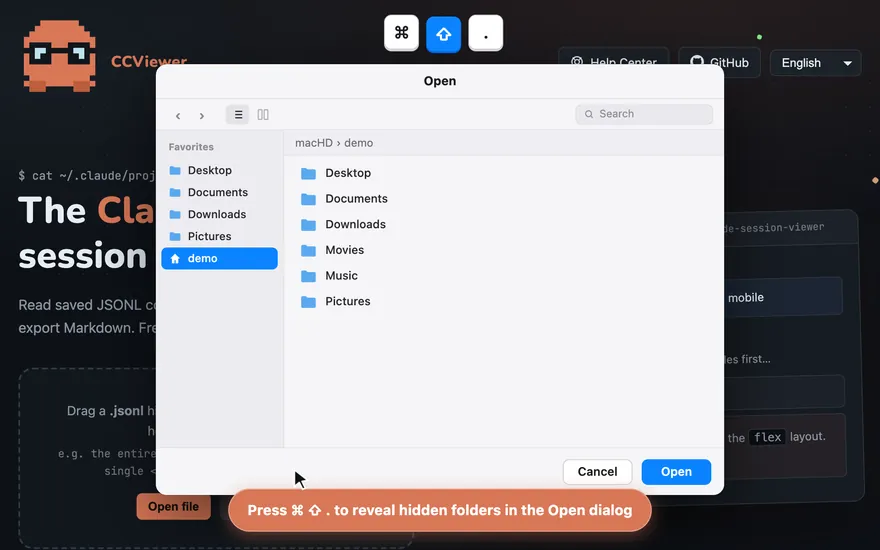
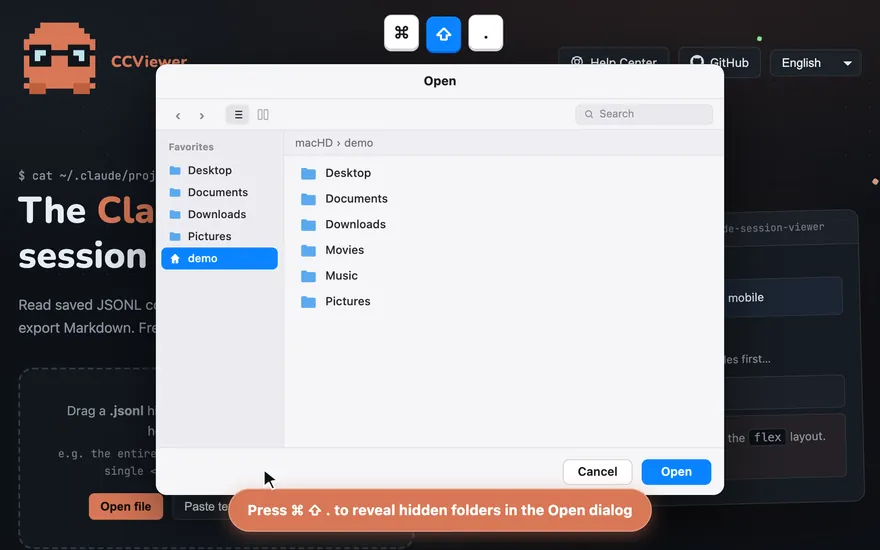
feat: keep Open folder as the third landing CTA button

diff --git a/claude-code-session-viewer/hi/index.html b/claude-code-session-viewer/hi/index.html
@@ -394,6 +394,7 @@ select.btn{appearance:none;-webkit-appearance:none;padding-right:26px;background
         <div class="cta">
           <button class="btn primary" id="btnPick" data-i18n="openFile">फ़ाइल खोलें</button>
           <button class="btn" id="btnPasteDrop" data-i18n="pasteText">टेक्स्ट पेस्ट करें</button>
+          <button class="btn" id="btnPickDir" data-i18n="openFolder">फ़ोल्डर खोलें</button>
         </div>
       </div>
     </div>
@@ -1499,6 +1500,7 @@ $('#btnHome').onclick=()=>{
 $('#btnLibrary').onclick=showLibrary;
 $('#btnLibLanding').onclick=showLibrary;
 $('#btnLibClose').onclick=()=>showView(CUR?'viewer':'landing');
+$('#btnPickDir').onclick=pickDir;
 $('#btnImportFolder').onclick=pickDir;
 $('#btnImportFolder2').onclick=pickDir;
 $('#dirpicker').onchange=async e=>{

diff --git a/claude-code-session-viewer/ru/index.html b/claude-code-session-viewer/ru/index.html
@@ -394,6 +394,7 @@ select.btn{appearance:none;-webkit-appearance:none;padding-right:26px;background
         <div class="cta">
           <button class="btn primary" id="btnPick" data-i18n="openFile">Открыть файл</button>
           <button class="btn" id="btnPasteDrop" data-i18n="pasteText">Вставить текст</button>
+          <button class="btn" id="btnPickDir" data-i18n="openFolder">Открыть папку</button>
         </div>
       </div>
     </div>
@@ -1499,6 +1500,7 @@ $('#btnHome').onclick=()=>{
 $('#btnLibrary').onclick=showLibrary;
 $('#btnLibLanding').onclick=showLibrary;
 $('#btnLibClose').onclick=()=>showView(CUR?'viewer':'landing');
+$('#btnPickDir').onclick=pickDir;
 $('#btnImportFolder').onclick=pickDir;
 $('#btnImportFolder2').onclick=pickDir;
 $('#dirpicker').onchange=async e=>{

diff --git a/claude-code-session-viewer/ja/index.html b/claude-code-session-viewer/ja/index.html
@@ -394,6 +394,7 @@ select.btn{appearance:none;-webkit-appearance:none;padding-right:26px;background
         <div class="cta">
           <button class="btn primary" id="btnPick" data-i18n="openFile">ファイルを開く</button>
           <button class="btn" id="btnPasteDrop" data-i18n="pasteText">テキストを貼り付け</button>
+          <button class="btn" id="btnPickDir" data-i18n="openFolder">フォルダを開く</button>
         </div>
       </div>
     </div>
@@ -1499,6 +1500,7 @@ $('#btnHome').onclick=()=>{
 $('#btnLibrary').onclick=showLibrary;
 $('#btnLibLanding').onclick=showLibrary;
 $('#btnLibClose').onclick=()=>showView(CUR?'viewer':'landing');
+$('#btnPickDir').onclick=pickDir;
 $('#btnImportFolder').onclick=pickDir;
 $('#btnImportFolder2').onclick=pickDir;
 $('#dirpicker').onchange=async e=>{

diff --git a/claude-code-session-viewer/fr/index.html b/claude-code-session-viewer/fr/index.html
@@ -394,6 +394,7 @@ select.btn{appearance:none;-webkit-appearance:none;padding-right:26px;background
         <div class="cta">
           <button class="btn primary" id="btnPick" data-i18n="openFile">Ouvrir un fichier</button>
           <button class="btn" id="btnPasteDrop" data-i18n="pasteText">Coller du texte</button>
+          <button class="btn" id="btnPickDir" data-i18n="openFolder">Ouvrir un dossier</button>
         </div>
       </div>
     </div>
@@ -1499,6 +1500,7 @@ $('#btnHome').onclick=()=>{
 $('#btnLibrary').onclick=showLibrary;
 $('#btnLibLanding').onclick=showLibrary;
 $('#btnLibClose').onclick=()=>showView(CUR?'viewer':'landing');
+$('#btnPickDir').onclick=pickDir;
 $('#btnImportFolder').onclick=pickDir;
 $('#btnImportFolder2').onclick=pickDir;
 $('#dirpicker').onchange=async e=>{

diff --git a/claude-code-session-viewer/ko/index.html b/claude-code-session-viewer/ko/index.html
@@ -394,6 +394,7 @@ select.btn{appearance:none;-webkit-appearance:none;padding-right:26px;background
         <div class="cta">
           <button class="btn primary" id="btnPick" data-i18n="openFile">파일 열기</button>
           <button class="btn" id="btnPasteDrop" data-i18n="pasteText">텍스트 붙여넣기</button>
+          <button class="btn" id="btnPickDir" data-i18n="openFolder">폴더 열기</button>
         </div>
       </div>
     </div>
@@ -1499,6 +1500,7 @@ $('#btnHome').onclick=()=>{
 $('#btnLibrary').onclick=showLibrary;
 $('#btnLibLanding').onclick=showLibrary;
 $('#btnLibClose').onclick=()=>showView(CUR?'viewer':'landing');
+$('#btnPickDir').onclick=pickDir;
 $('#btnImportFolder').onclick=pickDir;
 $('#btnImportFolder2').onclick=pickDir;
 $('#dirpicker').onchange=async e=>{

diff --git a/claude-code-session-viewer/de/index.html b/claude-code-session-viewer/de/index.html
@@ -394,6 +394,7 @@ select.btn{appearance:none;-webkit-appearance:none;padding-right:26px;background
         <div class="cta">
           <button class="btn primary" id="btnPick" data-i18n="openFile">Datei öffnen</button>
           <button class="btn" id="btnPasteDrop" data-i18n="pasteText">Text einfügen</button>
+          <button class="btn" id="btnPickDir" data-i18n="openFolder">Ordner öffnen</button>
         </div>
       </div>
     </div>
@@ -1499,6 +1500,7 @@ $('#btnHome').onclick=()=>{
 $('#btnLibrary').onclick=showLibrary;
 $('#btnLibLanding').onclick=showLibrary;
 $('#btnLibClose').onclick=()=>showView(CUR?'viewer':'landing');
+$('#btnPickDir').onclick=pickDir;
 $('#btnImportFolder').onclick=pickDir;
 $('#btnImportFolder2').onclick=pickDir;
 $('#dirpicker').onchange=async e=>{

diff --git a/claude-code-session-viewer/src/template.html b/claude-code-session-viewer/src/template.html
@@ -354,6 +354,7 @@ select.btn{appearance:none;-webkit-appearance:none;padding-right:26px;background
         <div class="cta">
           <button class="btn primary" id="btnPick" data-i18n="openFile">打开文件</button>
           <button class="btn" id="btnPasteDrop" data-i18n="pasteText">粘贴文本</button>
+          <button class="btn" id="btnPickDir" data-i18n="openFolder">打开文件夹</button>
         </div>
       </div>
     </div>
@@ -1452,6 +1453,7 @@ $('#btnHome').onclick=()=>{
 $('#btnLibrary').onclick=showLibrary;
 $('#btnLibLanding').onclick=showLibrary;
 $('#btnLibClose').onclick=()=>showView(CUR?'viewer':'landing');
+$('#btnPickDir').onclick=pickDir;
 $('#btnImportFolder').onclick=pickDir;
 $('#btnImportFolder2').onclick=pickDir;
 $('#dirpicker').onchange=async e=>{

diff --git a/claude-code-session-viewer/zh/index.html b/claude-code-session-viewer/zh/index.html
@@ -394,6 +394,7 @@ select.btn{appearance:none;-webkit-appearance:none;padding-right:26px;background
         <div class="cta">
           <button class="btn primary" id="btnPick" data-i18n="openFile">打开文件</button>
           <button class="btn" id="btnPasteDrop" data-i18n="pasteText">粘贴文本</button>
+          <button class="btn" id="btnPickDir" data-i18n="openFolder">打开文件夹</button>
         </div>
       </div>
     </div>
@@ -1499,6 +1500,7 @@ $('#btnHome').onclick=()=>{
 $('#btnLibrary').onclick=showLibrary;
 $('#btnLibLanding').onclick=showLibrary;
 $('#btnLibClose').onclick=()=>showView(CUR?'viewer':'landing');
+$('#btnPickDir').onclick=pickDir;
 $('#btnImportFolder').onclick=pickDir;
 $('#btnImportFolder2').onclick=pickDir;
 $('#dirpicker').onchange=async e=>{

diff --git a/claude-code-session-viewer/es/index.html b/claude-code-session-viewer/es/index.html
@@ -394,6 +394,7 @@ select.btn{appearance:none;-webkit-appearance:none;padding-right:26px;background
         <div class="cta">
           <button class="btn primary" id="btnPick" data-i18n="openFile">Abrir archivo</button>
           <button class="btn" id="btnPasteDrop" data-i18n="pasteText">Pegar texto</button>
+          <button class="btn" id="btnPickDir" data-i18n="openFolder">Abrir carpeta</button>
         </div>
       </div>
     </div>
@@ -1499,6 +1500,7 @@ $('#btnHome').onclick=()=>{
 $('#btnLibrary').onclick=showLibrary;
 $('#btnLibLanding').onclick=showLibrary;
 $('#btnLibClose').onclick=()=>showView(CUR?'viewer':'landing');
+$('#btnPickDir').onclick=pickDir;
 $('#btnImportFolder').onclick=pickDir;
 $('#btnImportFolder2').onclick=pickDir;
 $('#dirpicker').onchange=async e=>{

diff --git a/claude-code-session-viewer/pt/index.html b/claude-code-session-viewer/pt/index.html
@@ -394,6 +394,7 @@ select.btn{appearance:none;-webkit-appearance:none;padding-right:26px;background
         <div class="cta">
           <button class="btn primary" id="btnPick" data-i18n="openFile">Abrir arquivo</button>
           <button class="btn" id="btnPasteDrop" data-i18n="pasteText">Colar texto</button>
+          <button class="btn" id="btnPickDir" data-i18n="openFolder">Abrir pasta</button>
         </div>
       </div>
     </div>
@@ -1499,6 +1500,7 @@ $('#btnHome').onclick=()=>{
 $('#btnLibrary').onclick=showLibrary;
 $('#btnLibLanding').onclick=showLibrary;
 $('#btnLibClose').onclick=()=>showView(CUR?'viewer':'landing');
+$('#btnPickDir').onclick=pickDir;
 $('#btnImportFolder').onclick=pickDir;
 $('#btnImportFolder2').onclick=pickDir;
 $('#dirpicker').onchange=async e=>{

diff --git a/claude-code-session-viewer/index.html b/claude-code-session-viewer/index.html
@@ -394,6 +394,7 @@ select.btn{appearance:none;-webkit-appearance:none;padding-right:26px;background
         <div class="cta">
           <button class="btn primary" id="btnPick" data-i18n="openFile">Open file</button>
           <button class="btn" id="btnPasteDrop" data-i18n="pasteText">Paste text</button>
+          <button class="btn" id="btnPickDir" data-i18n="openFolder">Open folder</button>
         </div>
       </div>
     </div>
@@ -1499,6 +1500,7 @@ $('#btnHome').onclick=()=>{
 $('#btnLibrary').onclick=showLibrary;
 $('#btnLibLanding').onclick=showLibrary;
 $('#btnLibClose').onclick=()=>showView(CUR?'viewer':'landing');
+$('#btnPickDir').onclick=pickDir;
 $('#btnImportFolder').onclick=pickDir;
 $('#btnImportFolder2').onclick=pickDir;
 $('#dirpicker').onchange=async e=>{
